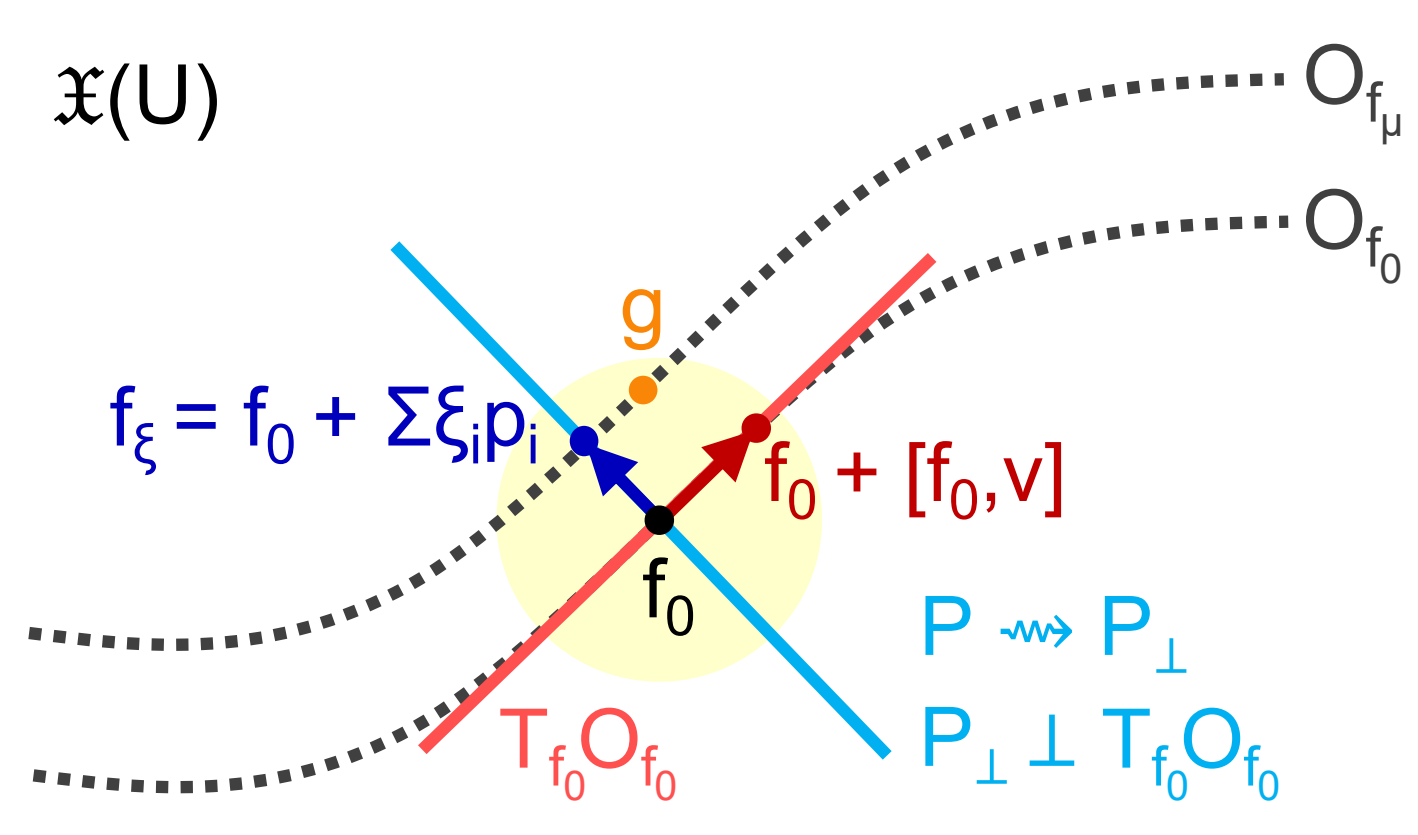
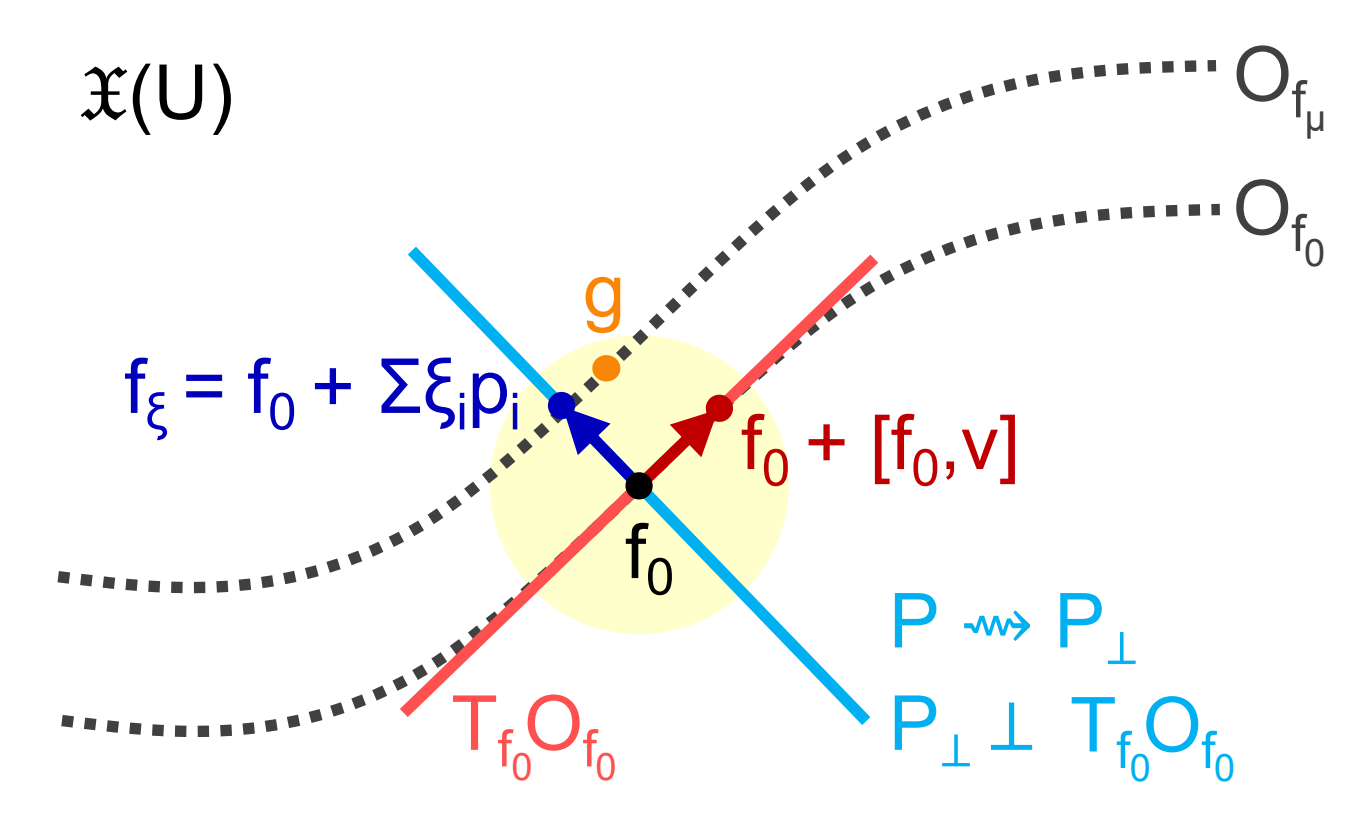
Publication updated.

Changed region(s): [[0.0, 0.0306, 0.9919, 0.9486], [0.6509, 0.7038, 0.8369, 0.8262], [0.031, 0.0612, 0.186, 0.153]]

diff --git a/_publications/2025-07-13-poincare.md b/_publications/2025-07-13-poincare.md
@@ -6,7 +6,7 @@ permalink: /publication/icml2025
 excerpt: '<strong>In Huh</strong>, Changwook Jeong, Muhammad Ashraful Alam'
 date: 2025-07-13
 venue: 'International Conference on Machine Learning (<strong>ICML</strong>)'
-paperurl: 'https://openreview.net/forum?id=LRIkWWxUZI'
+paperurl: 'https://openreview.net/pdf?id=LRIkWWxUZI'
 summary: '<strong>In Huh</strong> et al., <i>International Conference on Machine Learning (<strong>ICML</strong>)</i>, 2025'
 header:
   teaser: poincare.png
@@ -18,4 +18,4 @@ Out-Of-Domain (OOD) generalization is a significant challenge in learning dynami
 
 <strong>In Huh</strong> et al., <i>International Conference on Machine Learning (<strong>ICML</strong>)</i>, 2025
 
-[Download Paper](https://openreview.net/forum?id=LRIkWWxUZI)
+[Download Paper](https://openreview.net/pdf?id=LRIkWWxUZI)